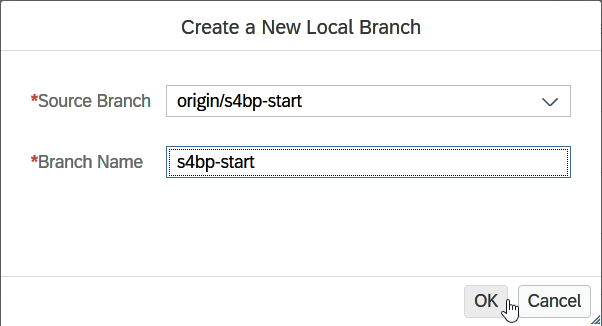
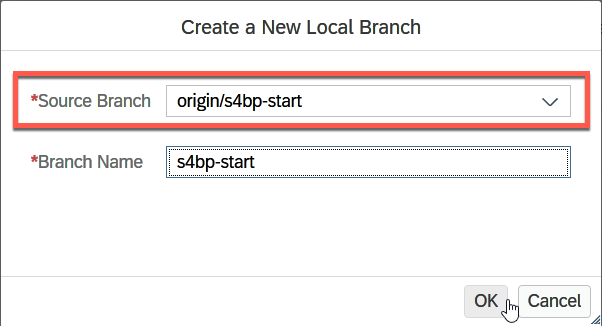
Exercise 3

Changed region(s): [[0.0, 0.2147, 0.9867, 0.4294]]

diff --git a/-exercises-/03-ConnectService/README.md b/-exercises-/03-ConnectService/README.md
@@ -1,4 +1,4 @@
-# Exercise 03: Connect an S/4HANA service (business partner)
+# Exercise 03: Connect to the S/4HANA business partner service
 
 ## Estimated time
 
@@ -6,88 +6,115 @@
 
 ## Objective
 
-In this exercise you'll learn how to add a remote service to your app which fetches customer data from an S/4 system. When creating a new booking, this data will be read once and then cached in your application database.
+In this exercise you will learn how to add a remote service to your app that fetches customer data from an S/4HANA system. When creating a new booking, this data will be fetched once and then cached in your application database.
 
-# Exercise description
+## Exercise description
 
-## 1. Import S/4 HANA service
+### 1. Import S/4HANA service
 
-> **For this exercise you have to switch to another code branch of the cloned Github repository**
+For this exercise you have to **switch to another code branch** of the Git repository.
 
-1. In the Git pane, click the '+' icon to create a new local and link it to the desired remote branch. 
+1. **Create a new local branch**
 
-<p align="center"><img width="420" src="res/pic301.png" alt="Create local branch"> </p>
+   In the Git pane click the `+` icon:
+   <p align="center"><img width="420" src="res/pic301.png" alt="Create local branch"> </p>
 
-2. **Select the branch names as shown in the picture:**
-<p align="center"><img width="420" src="res/pic302.png" alt="Create local branch"> </p>
+   As source branch select `origin/s4bp-start`.  The name of the local branch is suggested automatically.  Click `Ok`.
+   <p align="center"><img width="420" src="res/pic302.png" alt="Select source branch"> </p>
 
-3. **Check the branch name in the file explorer:**
-<p align="center"><img width="330" src="res/pic303a.png" alt="Branch name in explorer"> </p>
+   The file explorer always shows the currently active branch:
+   <p align="center"><img width="330" src="res/pic303a.png" alt="Branch name in explorer"> </p>
 
-4. **Find model of external service in SAP API Business Hub:**  Navigate to SAP API Business Hub by opening the url https://api.sap.com/ in a separate browser tab or window. Select the "Log On" button and enter the credentials. In the search field type "OData Service for Business Partner" and press the search icon.
-![API Hub Search](res/pic303b.png)
+2. **Download the model of the external service from SAP API Business Hub**
 
-5. **Select the first search result** ("OData Service for Business Partner"). On the next screen switch to the "Details" view. Scroll down to select "Download Specification" and then select "EDMX"
-<p align="center"><img width="470" src="res/pic303c.png" alt="Select OData API" border=1> </p>
-Store this file to your local computer.
+   Navigate to SAP API Business Hub by opening the URL https://api.sap.com in a separate browser tab.  Select the `Log On` button and enter the email address and password of your user.
+   <p align="center"><img width="480" src="res/pic303d.png" alt="Lon on to SAP API Business Hub"> </p>
 
-6. **Import the service model into your project:** Switch back to SAP Web IDE and import the file stored on your computer as an external service definition, by right-mouse-click on the ``srv`` folder, then selecting "New" -> "DataModel from External Service":  
-![TBD](res/pic306.png)
+   In the search field type "OData Service for Business Partner" and press the search icon.
+   <p align="center"><img width="480" src="res/pic303b.png" alt="API Hub Search"> </p>
 
-7. In the wizard, **import the previously stored file from your computer**. Then press "Next".
-![TBD](res/pic308a.png)
+   On the next screen switch to the "Details" view. Scroll down to select "Download Specification" and then select "EDMX".  Store this file to your local machine.
+   <p align="center"><img width="480" src="res/pic303c.png" alt="Select OData API"> </p>
 
-8. **Uncheck the box "Generate Virtua Data Model classes" and press "Finish":**
-![TBD](res/pic310.png)
+3. **Import the service model into your project**
 
-9. **Verify that the import has generated two service definitions**, one in xml format ("edmx"), the other in json format ("cson").
-<p align="center"><img width="350" src="res/pic311.png" alt="Imported files" border=1> </p>
+   a. Switch back to SAP Web IDE and on the `srv` folder select `New` > `Data Model from External Service` from the context menu:
+   <p align="center"><img width="480" src="res/pic306.png" alt="Data model from external service"> </p>
 
-## 2. Incorporate external entities into data and service model
+   b. In the wizard, select `Browse` and find the downloaded model file.  Press `Next`.
+   <p align="center"><img width="640" src="res/pic308a.png" alt="Select the model file"> </p>
 
-1. **Remove comments in `db/index.cds`:**
-![TBD](res/pic312.png)
-![TBD](res/pic313.png)
+   c. Deselect the checkbox `Generate Virtual Data Model classes` and press `Finish`.
+   <p align="center"><img width="480" src="res/pic310.png" alt="Turn off class generation"> </p>
 
-2. **Remove comments in `srv/booking-service.cds`:**
-![TBD](res/pic314.png)
+   > Java class generation for the data model is not needed in our case, as we will be using precompiled and optimized classes provided by S/4HANA cloud SDK.
 
-3. **Build and deploy to the database:**
-![TBD](res/pic319.png)
-![TBD](res/pic320.png)
+   d. Verify in file explorer that the import has generated two service definitions, one in `xml` format, the other in `json` format   These can be found in folder `srv` > `external`.
+   <p align="center"><img width="350" src="res/pic311.png" alt="Imported files"> </p>
 
-4. **Browse the database:**
-<p align="center"><img width="400" src="res/pic326.png" alt="Browse the database" border=1> </p>
+   > While the `xml` file, the so-called `edmx`, is the original model file from API Business Hub, the `json` file is the compiled representation of the model for CDS.  It is this `json` file, so-called `cson`, that we will reference from other `cds` source files.
+
+### 2. Use external model in flight data and service model
+
+1. **Remove comments in file `db/index.cds`**
+   You can use the `Toggle Line Comment` command from the editor context menu for this, or hit `Ctrl+/`
+   <p align="center"><img width="480" src="res/pic313.png" alt="Remove comments in db/index.cds"> </p>
+
+   > TODO Explanation needed
+
+   After you save the file, CDS auto build will yield errors for the project.  No worries, we will fix them now.
+
+2. **Remove comments in file `srv/booking-service.cds`** in the last two lines.
+   <p align="center"><img width="480" src="res/pic314.png" alt="Remove comments in srv/booking-servicde.cds"> </p>
+
+   > TODO Explanation needed
+
+   After you save the file, CDS auto build should now successfully compile our CDS model.
+   Should there still be errors shown in `db/index.cds`, close the editors and refresh the browser page.
+
+3. **Build and deploy to the database**
+   <p align="center"><img width="480" src="res/pic319.png" alt="Deploy to database"> </p>
+
+   There should be a success message in console view for the deploy operation:
+   <p align="center"><img width="480" src="res/pic320.png" alt="Deploy to database"> </p>
+
+4. **Browse the database**
+
+   One the `db` folder, select `Open HDI Container`, which will lead you to the deployed tables.
+   Click on the `Tables` item in the tree.
+   <p align="center"><img width="480" src="res/pic326a.png" alt="Browse the database"> </p>
+
+   > There is a new table `..._CUSTOMERS` for the `Customers` entity.  Also, in table `..._BOOKINGS` you can see a new column `CUSTOMER_ID` for the foreign key to the new `CUSTOMERS` table.  In the next section you will see how this new table is filled with data from S/4HANA.
 
 
-## 3. Change Java handler code: add S/4 calls
+### 3. Change Java handler code: add S/4 calls
 
 1. **Adjust `CustomersRemoteHandler.java`:** Change the line comments as indicated in the pictures.
 ![TBD](res/pic317.png)
 ![TBD](res/pic318.png)
 
 2. **Run the Java application:**
-<p align="center"><img width="500" src="res/pic321.png" alt="Run Java app" border=1> </p>
+<p align="center"><img width="500" src="res/pic321.png" alt="Run Java app"> </p>
 
 3. **Browse the Booking Service:** Click the url of the Java application in the run console:
 ![TBD](res/pic322.png)
 
-4. **Select the BookingService endpoint to see the service metadata:** 
+4. **Select the BookingService endpoint to see the service metadata:**
 ![TBD](res/pic323.png)
-**Check the data retreived as "Bookings" and as "CustomerRemote":** 
+**Check the data retreived as "Bookings" and as "CustomerRemote":**
 ![TBD](res/pic324.png)
 ![TBD](res/pic325.png)
 Remote customers (read from S/4) are not yet persisted in our database ...
 
-## 4. Prepare storing S/4 customers in the local database
+### 4. Prepare storing S/4 customers in the local database
 1. **Adjust `BookingsHandler.java`:** Remove the line comments to match the following pictures.
 ![TBD](res/pic315.png)
 ![TBD](res/pic316.png)
 
 2. **Run again:**
-<p align="center"><img width="500" src="res/pic321.png" alt="Run Java app" border=1> </p>
+<p align="center"><img width="500" src="res/pic321.png" alt="Run Java app"> </p>
 
-## Create bookings for S/4 customers
+### 5. Create bookings for S/4 customers
 
 1. **Adjust the UI:** The UI can be adapted when adding/changing Fiori annotations to CDS models. Remove the line comments for the section marked in the following figures:
 ![TBD](res/pic327.png)
@@ -96,11 +123,11 @@ Remote customers (read from S/4) are not yet persisted in our database ...
 ![TBD](res/pic329.png)
 
 2. **Run the UI within SAP Web IDE:**
-<p align="center"><img width="600" src="res/pic331.png" alt="Imported files" border=1> </p>
+<p align="center"><img width="600" src="res/pic331.png" alt="Imported files"> </p>
 
-<p align="center"><img width="600" src="res/pic332.png" alt="Imported files" border=1> </p>
+<p align="center"><img width="600" src="res/pic332.png" alt="Imported files"> </p>
 
-<p align="center"><img width="700" src="res/pic333.png" alt="Imported files" border=1> </p>
+<p align="center"><img width="700" src="res/pic333.png" alt="Imported files"> </p>
 
 3. **Create a new booking for an S/4 customer:**
 ![TBD](res/pic334.png)
